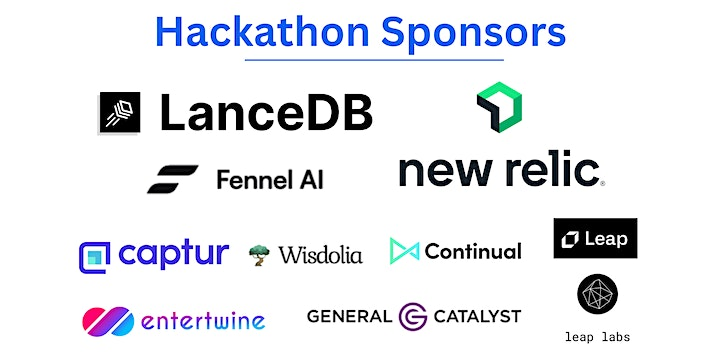
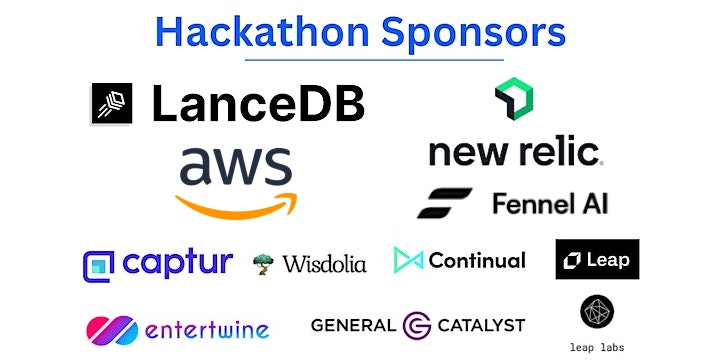
add aws as challenge sponsor

diff --git a/README.md b/README.md
@@ -17,6 +17,7 @@ These products have specific challenges and prizes associated with them. Learn m
 - [Amplitude](challenge-sponsors/amplitude/README.md): a product analytics tool that helps you understand what users are doing and build better products.
 - [New Relic](challenge-sponsors/newrelic/README.md): an analytics and observability platform for troubleshooting and optimizing software performance.
 - [LanceDB](challenge-sponsors/lancedb/README.md): a vector database designed for the complex requirements of large-scale AI and ML applications.
+- [Amazon Web Services](challenge-sponsors/aws/README.md): AI code generation with CodeWhisperer and LLM foundational models on SageMaker Jumpstart.
 - [Fennel.ai](challenge-sponsors/fennelai/README.md): a fully-managed, realtime feature engineering platform for fast moving ML teams.
 
 ### Other Sponsors
@@ -32,7 +33,6 @@ These products are not directly related to the hackathon, but we think you might
 
 - [SentenceTransformers](other-products/sentence-transformers/README.md): a Python library for state-of-the-art sentence, text, and image embeddings.
 - [OpenAI](other-products/openai/README.md): powerful large language model APIs for chat, completion, and embedding.
-- [AWS SageMaker](other-products/sagemaker/README.md): build, train, and deploy ML models at scale in AWS.
 - [Hugging Face](other-products/huggingface/README.md): a repository of ML models, and a platform for training/inference.
 
 ## Datasets

diff --git a/challenge-sponsors/aws/README.md b/challenge-sponsors/aws/README.md
@@ -1,6 +1,12 @@
-# [AWS SageMaker](https://aws.amazon.com/sagemaker/)
+# AWS [SageMaker](https://aws.amazon.com/sagemaker/) and [CodeWhisperer](https://aws.amazon.com/codewhisperer/)
 
 SageMaker is a powerful tool for building, training, and deploying ML models. You can deploy a bunch of existing models from the AWS Marketplace for things like object detection, text summarization, fraud detection, etc. You can also spin up infrastructure to train your own models or create an inference endpoint from a model that you've trained.
+
+CodeWhisperer is trained on billions of lines of code and can generate code suggestions ranging from snippets to full functions in real time based on your comments and existing code. Bypass time-consuming coding tasks and accelerate building with unfamiliar APIs.
+
+## Challenge
+
+AWS is awarding a $5,000 prize for the project that best uses SageMaker and/or CodeWhisperer.
 
 ## Getting Started
 
